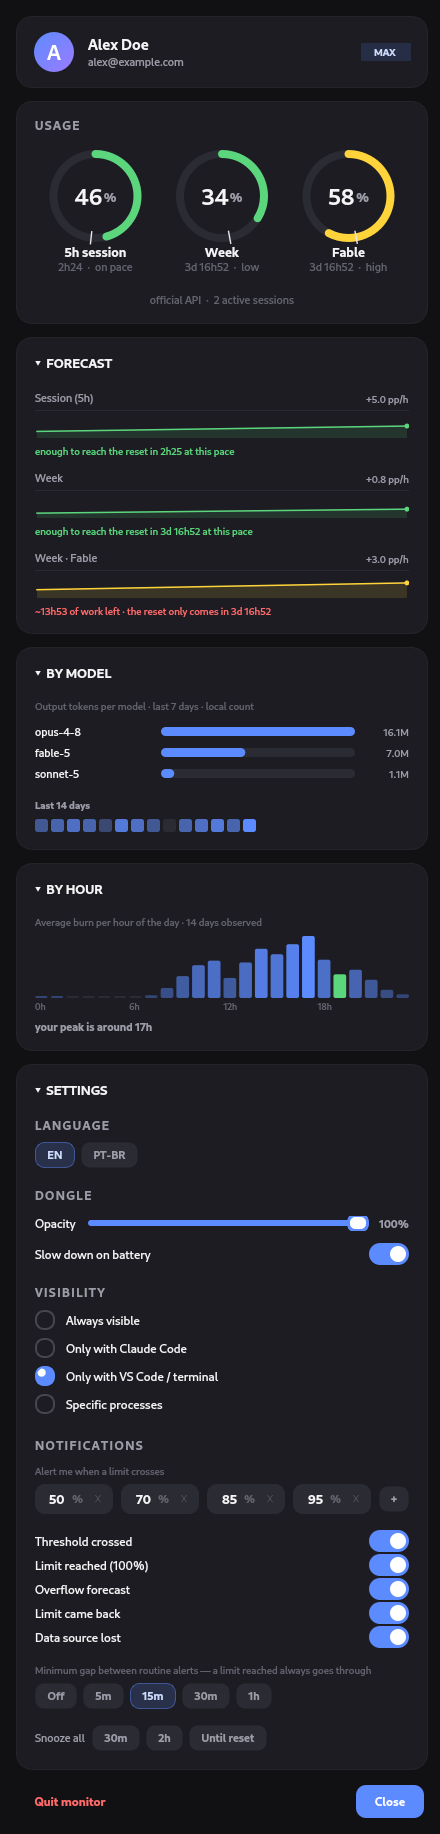
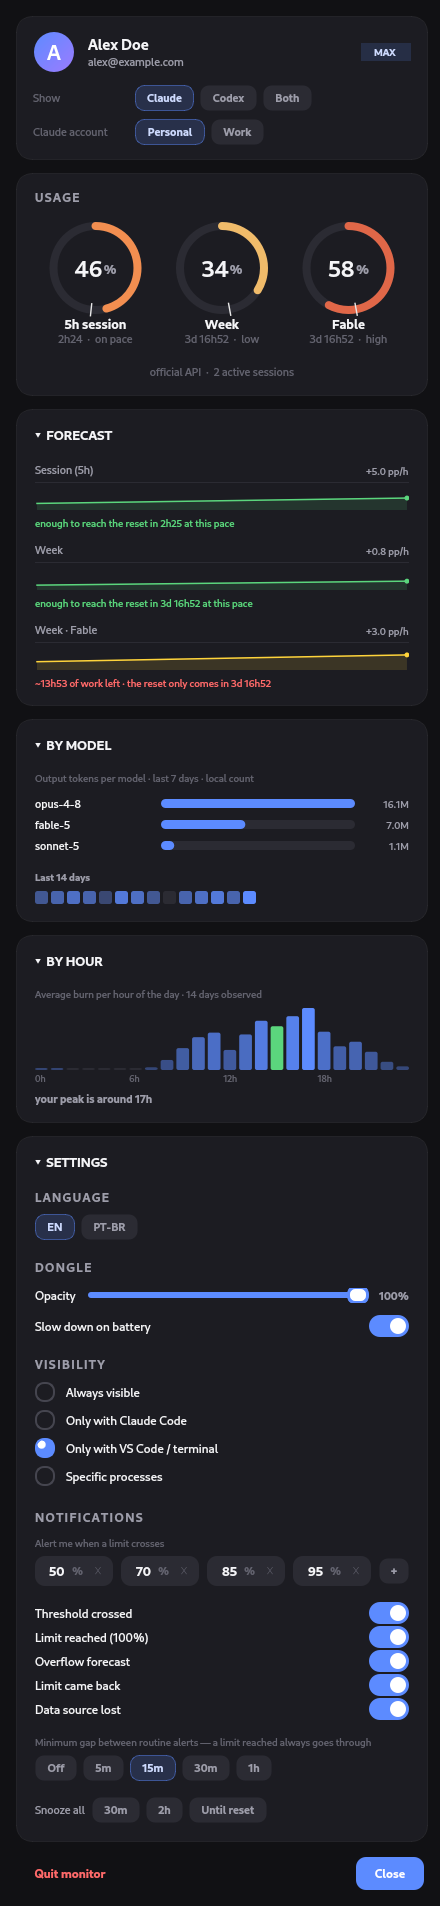
release: v1.2.0
Several Claude accounts, Codex next to Claude, and a dongle that hides
with the last terminal. README screenshots regenerated with the new look
and a split-dongle shot; the generator fakes the account list and the
Codex reading so no real name reaches the README. __version__ had been
left at 1.0.0.

diff --git a/scripts/gen_screenshots.py b/scripts/gen_screenshots.py
@@ -1,7 +1,8 @@
 #!/usr/bin/env python3
 """Generates the README screenshots with FAKE data, offscreen.
 
-Regenerates docs/{dongle,dashboard,dashboard-full,notifications}.png through the
+Regenerates docs/{dongle,dongle-both,dashboard,dashboard-full,notifications}.png
+through the
 app's own renderer (pixel-faithful), swapping real account/email/projects for
 anonymous data — so no PII ever leaks into captures of a repo that may go public.
 
@@ -71,7 +72,9 @@ FAKE_NOTIFS = [
 ]
 
 # --- neutralize everything that leaves the machine / writes / notifies -------
-from claude_dongle import monitor, projects, history, notifier, config, i18n
+from pathlib import Path
+from claude_dongle import (accounts, codex, monitor, projects, history, notifier,
+                           config, i18n)
 
 # The README is in English; without this the shots would follow the
 # machine's locale (pt_BR here).
@@ -94,6 +97,16 @@ history.hourly_profile = lambda *a, **k: {
     "hours": FAKE_HOURS, "days": 14, "peak": 17}
 history.attach_forecasts = lambda *a, **k: None
 config.save = lambda *a, **k: None
+# The panel lists the Claude accounts found in the home dir: the real ones
+# (names, org) must never reach a public README.
+FAKE_ACCOUNTS = {"": "Personal", "work": "Work"}
+accounts.discover = lambda current=None: [Path.home() / ".claude",
+                                          Path.home() / ".claude-work"]
+accounts.label = lambda d: FAKE_ACCOUNTS.get(accounts.key(d), "Personal")
+codex.read = lambda d: {"pct_5h": 38.0, "pct_7d": 21.0, "reset_5h_epoch": NOW + 7200,
+                        "reset_7d_epoch": NOW + 400_000, "plan": "plus",
+                        "age_seconds": 120, "window_5h_min": 300,
+                        "window_7d_min": 10080}
 
 
 def _fake_series(metric, *a, **k):
@@ -133,6 +146,18 @@ def gen_app_shots():
     pm.fill(QColor("#000000"))
     d.render(pm)
     pm.save(str(OUT / "dongle.png"))
+    d.close()
+
+    # split: Claude and Codex side by side in the same 216x36
+    d = DongleWidget(_cfg(show_mode="always", sources="both"))
+    d._overflow = False
+    d._critical = False
+    d.update(); app.processEvents()
+    pm = QPixmap(DONGLE_W, DONGLE_H)
+    pm.fill(QColor("#000000"))
+    d.render(pm)
+    pm.save(str(OUT / "dongle-both.png"))
+    d.close()
 
     for name, over in (("dashboard", dict(forecast_expanded=False, projects_expanded=False,
                                           settings_expanded=False)),
@@ -148,7 +173,7 @@ def gen_app_shots():
         app.processEvents()
         w.grab().save(str(OUT / f"{name}.png"))
         w.close(); app.processEvents()
-    print("app shots:", "dongle dashboard dashboard-full")
+    print("app shots:", "dongle dongle-both dashboard dashboard-full")
 
 
 def gen_notifs():

diff --git a/claude_dongle/__init__.py b/claude_dongle/__init__.py
@@ -1,2 +1,2 @@
 """claude-dongle — Claude Code rate-limit monitor (floating dongle + dashboard)."""
-__version__ = "1.0.0"
+__version__ = "1.2.0"

diff --git a/CHANGELOG.md b/CHANGELOG.md
@@ -1,6 +1,6 @@
 # Changelog
 
-## Unreleased
+## 1.2.0 — 2026-09-25
 
 ### Added
 
@@ -18,6 +18,15 @@
 
 ### Fixed
 
+- **The dongle never hid after the last terminal closed.** Ptyxis and GNOME
+  Terminal keep a background service alive with no window, and matching the
+  process name saw it forever. A terminal now counts only while it has an open
+  tab (a child that is not one of its own helpers).
+- **Codex counted as VS Code.** The `code` prefix matched `codex`, and `claude`
+  matched `claude-dongle` itself. Names match exactly on Linux and Windows.
+- **Gone until the next login on Windows and macOS.** After 10 minutes hidden
+  the dongle quits, and only Linux has something (the terminal hook) to start
+  it again. It stays running, hidden, everywhere else.
 - The default account's identity was read from `~/.claude/.claude.json`, a
   location Claude Code stopped updating; the newest of it and `~/.claude.json`
   wins now.

diff --git a/README.md b/README.md
@@ -12,6 +12,8 @@ login, nothing sent anywhere.
 <br>
 
 <img src="docs/dongle.png" alt="the dongle" width="240">
+&nbsp;
+<img src="docs/dongle-both.png" alt="the dongle with Claude and Codex side by side" width="240">
 
 <br><br>
 
